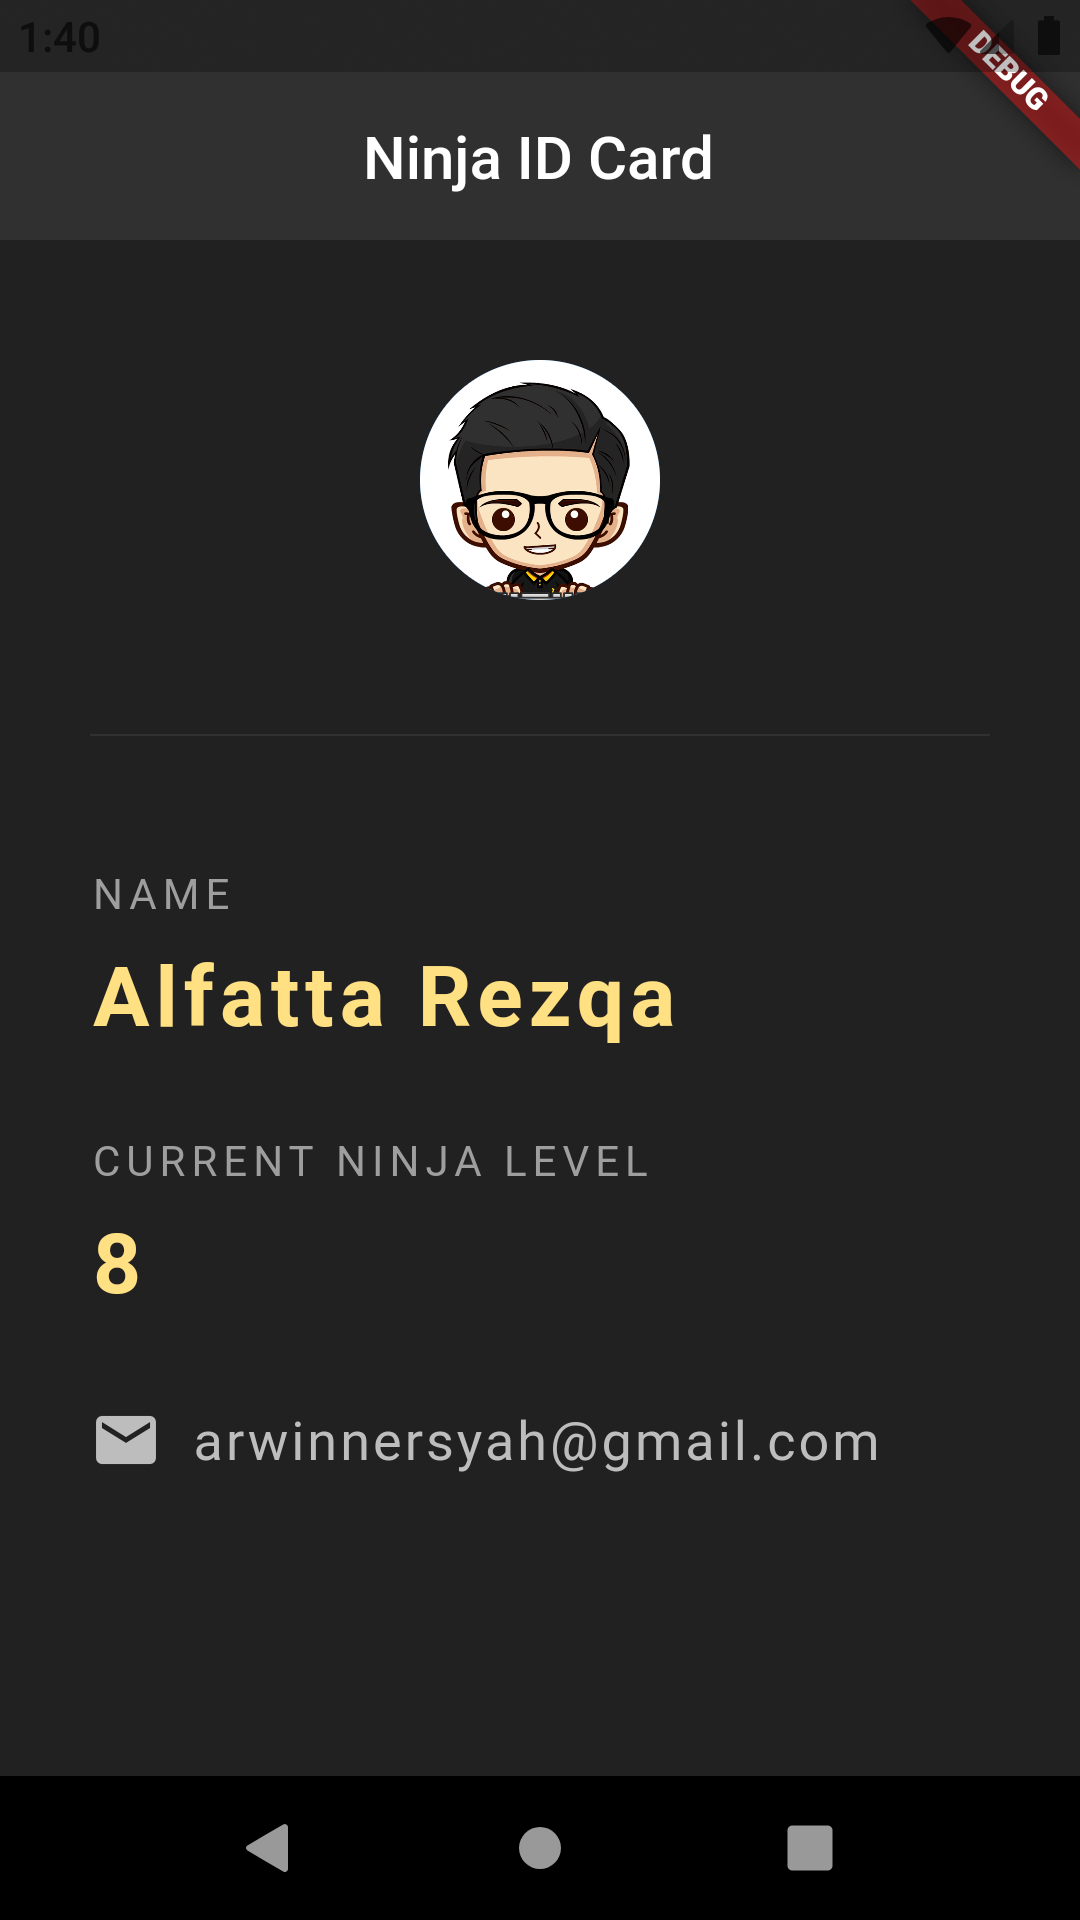
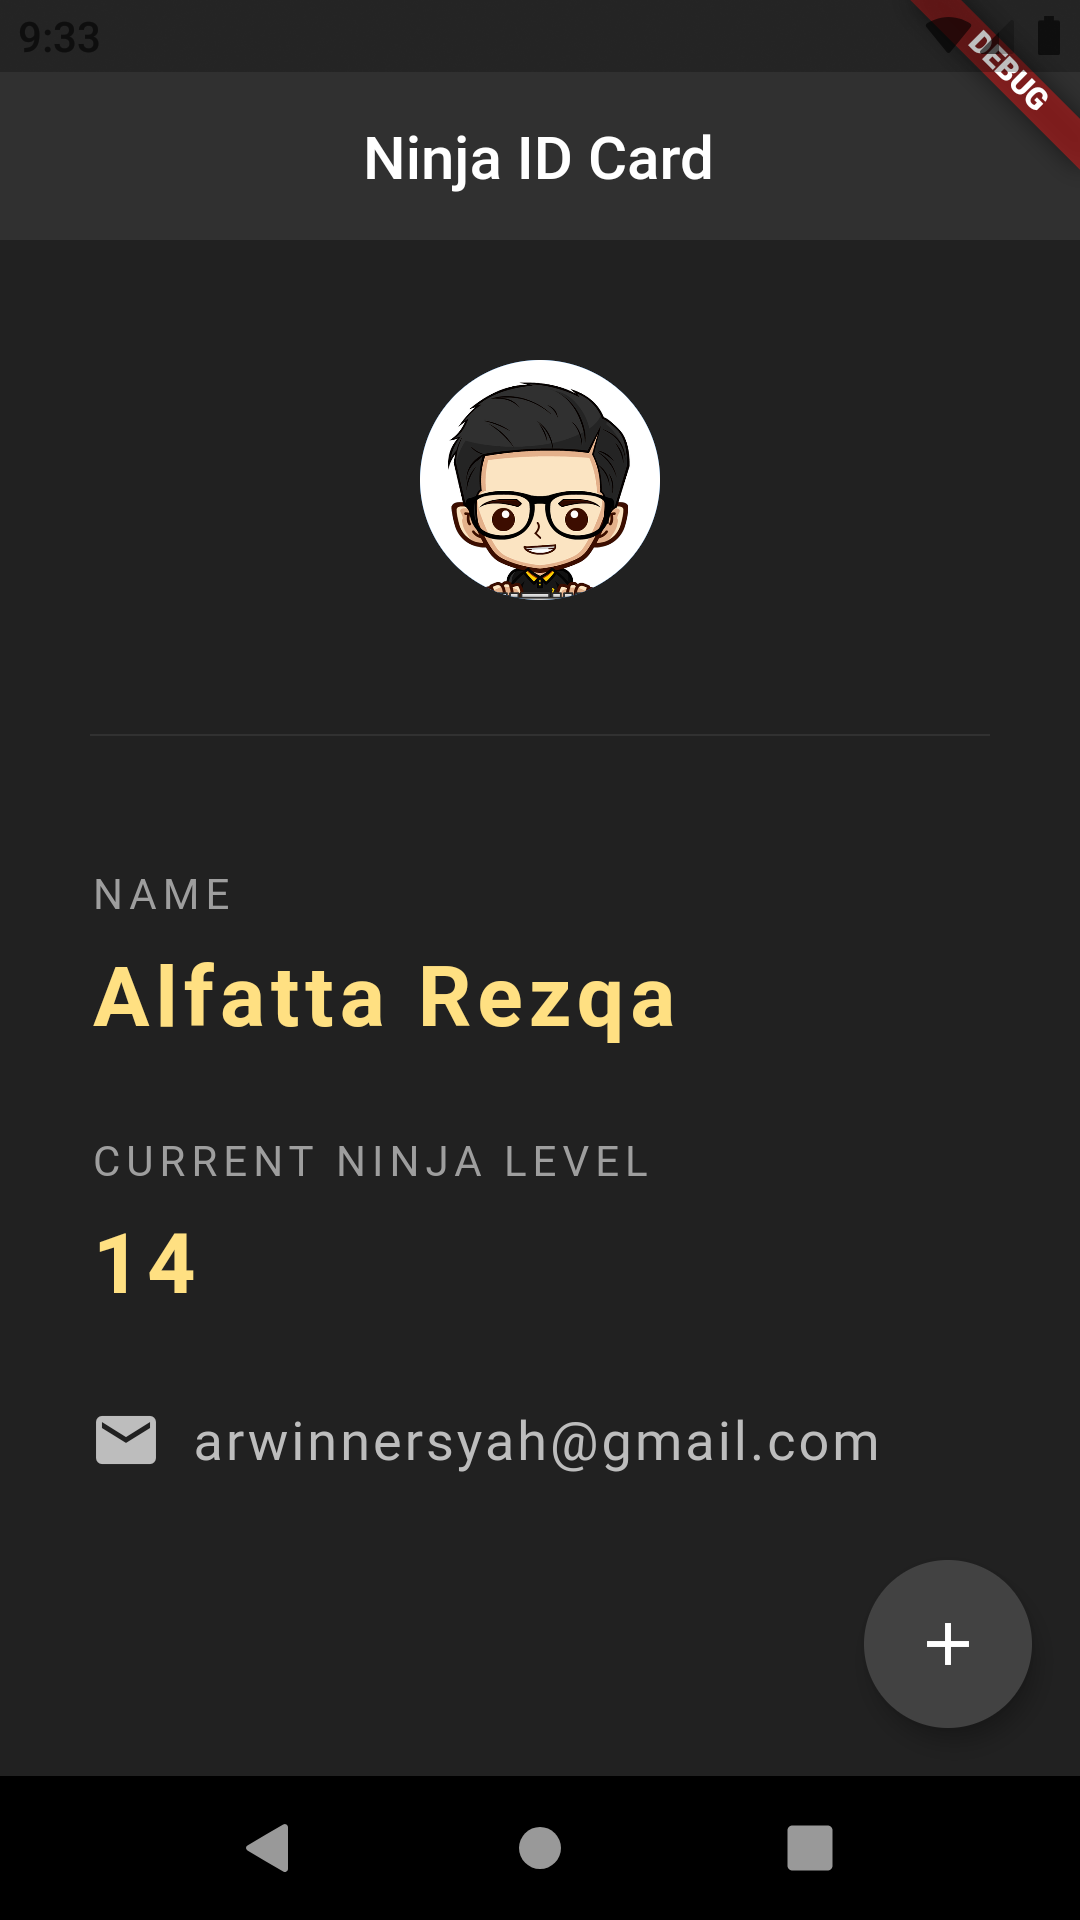
statefull widget

Changed region(s): [[0.7944, 0.8125, 0.9778, 0.9062], [0.0917, 0.625, 0.1833, 0.6875]]

diff --git a/lib/main.dart b/lib/main.dart
@@ -4,8 +4,15 @@ void main() => runApp(MaterialApp(
       home: NinjaCard(),
     ));
 
-class NinjaCard extends StatelessWidget {
+class NinjaCard extends StatefulWidget {
   // This widget is the root of your application.
+  @override
+  _NinjaCardState createState() => _NinjaCardState();
+}
+
+class _NinjaCardState extends State<NinjaCard> {
+  int ninjaLevel = 0;
+
   @override
   Widget build(BuildContext context) {
     return Scaffold(
@@ -15,6 +22,15 @@ class NinjaCard extends StatelessWidget {
         centerTitle: true,
         backgroundColor: Colors.grey[850],
         elevation: 0.0,
+      ),
+      floatingActionButton: FloatingActionButton(
+        onPressed: () {
+          setState(() {
+            ninjaLevel += 1;
+          });
+        },
+        child: Icon(Icons.add),
+        backgroundColor: Colors.grey[800],
       ),
       body: Padding(
         padding: EdgeInsets.fromLTRB(30.0, 40.0, 30.0, 0.0),
@@ -58,7 +74,7 @@ class NinjaCard extends StatelessWidget {
             ),
             SizedBox(height: 10.0),
             Text(
-              '8',
+              '$ninjaLevel',
               style: TextStyle(
                 color: Colors.amber[200],
                 letterSpacing: 2.0,
